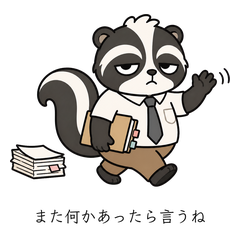
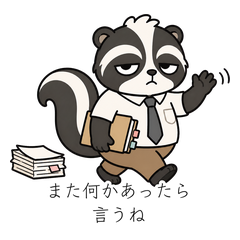
Align site releases and add character archive

diff --git a/site/index.html b/site/index.html
@@ -10,7 +10,7 @@
 <body>
   <header class="site-header">
     <a class="brand" href="./">Yuruaru Studio</a>
-    <nav><a href="#about">About</a><a href="#stickers">Stickers</a><a href="#vol2">Vol.2</a><a href="#future">Future</a><a href="#news">News</a></nav>
+    <nav><a href="#about">About</a><a href="#stickers">Stickers</a><a href="#releases">Releases</a><a href="characters.html">Characters</a><a href="#news">News</a></nav>
   </header>
 
   <main>
@@ -53,19 +53,27 @@
       </div>
     </section>
 
-    <section id="future" class="section future">
-      <div class="section-heading"><div><p class="eyebrow">In progress</p><h2>次の「あるある」も準備中。</h2></div><span class="status status-muted">制作中</span></div>
-      <p class="lead">なましすの世界を少しずつ広げています。生成AIに翻弄される第三弾と、めんどくさい依頼を投げてくるスカおじの第四弾を制作中です。</p>
+    <section id="releases" class="section future">
+      <div class="section-heading"><div><p class="eyebrow">Now available</p><h2>販売中のスタンプ。</h2></div><span class="status status-live">Vol.1〜6</span></div>
+      <p class="lead">なましすから、コンサル、スカおじ、レイコン、カワイソ、略語好きのカラスまで。仕事の「あるある」をキャラクターごとに展開しています。</p>
       <div class="future-grid">
-        <article class="future-card"><img src="assets/submission/vol3-main.png" alt="第三弾 生成AIに翻弄されるなましす"><div><p class="eyebrow">Vol.3</p><h3>生成AIに翻弄される日常</h3><p>「AIがこう言ってたんですけど…」が飛び交う、ちょっと先のITあるある。</p></div></article>
-        <article class="future-card"><img src="assets/submission/vol4-main.png" alt="第四弾 スカおじのめんどくさい依頼"><div><p class="eyebrow">Vol.4</p><h3>スカおじのめんどくさい依頼</h3><p>かわいいのに、じわじわ手強い。スカおじの「あと一個だけ」にご注意ください。</p></div></article>
+        <article class="future-card"><img src="assets/submission/vol3-main.png" alt="AIに翻弄されるなましす"><div><p class="eyebrow">Vol.3</p><h3>AIに翻弄されるなましす</h3><p>「AIがこう言ってたんですけど…」が飛び交う、生成AI時代のITあるある。</p><a class="text-link" href="https://line.me/S/sticker/36466731" target="_blank" rel="noopener">購入する ↗</a></div></article>
+        <article class="future-card"><img src="assets/submission/vol4-main.png" alt="スカおじのめんどくさい依頼"><div><p class="eyebrow">Vol.4</p><h3>スカおじのめんどくさい依頼</h3><p>かわいいのに、じわじわ手強い。スカおじの「あと一個だけ」にご注意ください。</p><a class="text-link" href="https://line.me/S/sticker/36487866" target="_blank" rel="noopener">購入する ↗</a></div></article>
+        <article class="future-card"><img src="assets/submission/vol5-main.png" alt="冷笑キツネとルール疲れカワイソ"><div><p class="eyebrow">Vol.5</p><h3>冷笑キツネとルール疲れカワイソ</h3><p>レイコンとカワイソが、承認・会議・申請・ハンコに今日もため息。</p><a class="text-link" href="https://line.me/S/sticker/36518780" target="_blank" rel="noopener">購入する ↗</a></div></article>
+        <article class="future-card"><img src="assets/submission/vol6-main.png" alt="それ、つまり何ですか？"><div><p class="eyebrow">Vol.6</p><h3>それ、つまり何ですか？</h3><p>横文字コンサルと略語好きエンジニア。伝わらない会話に今日も疲れる。</p><a class="text-link" href="https://line.me/S/sticker/36695331" target="_blank" rel="noopener">購入する ↗</a></div></article>
       </div>
+    </section>
+
+    <section id="future" class="section next">
+      <p class="eyebrow">Coming next</p>
+      <h2>次の「あるある」も準備中。</h2>
+      <p>犬PM、データ担当、BE、SRE。まだまだ増える、弱くて可愛いITどうぶつたち。</p>
     </section>
 
     <section id="news" class="section next">
       <p class="eyebrow">Coming next</p>
       <h2>ゆるく、続いていきます。</h2>
-      <p>第一弾・第二弾を販売中です。気になるセリフや「あるある」があれば、ぜひ教えてください。</p>
+      <p>Vol.1〜6を販売中です。気になるセリフや「あるある」があれば、ぜひ教えてください。</p>
     </section>
   </main>
 

diff --git a/site/characters.html b/site/characters.html
@@ -1,0 +1,39 @@
+<!doctype html>
+<html lang="ja">
+<head>
+  <meta charset="utf-8">
+  <meta name="viewport" content="width=device-width, initial-scale=1">
+  <meta name="description" content="Yuruaru StudioのITどうぶつキャラクター紹介。">
+  <title>Characters｜Yuruaru Studio</title>
+  <link rel="stylesheet" href="style.css">
+</head>
+<body>
+  <header class="site-header">
+    <a class="brand" href="./">Yuruaru Studio</a>
+    <nav><a href="./#releases">Releases</a><a href="characters.html">Characters</a><a href="./#news">News</a></nav>
+  </header>
+  <main>
+    <section class="section character-intro">
+      <p class="eyebrow">Character archive</p>
+      <h1>弱くて可愛い、<br>ITどうぶつたち。</h1>
+      <p class="lead">それぞれの職種、それぞれの限界。それでもなんとか働いているキャラクターを紹介します。</p>
+    </section>
+    <section class="section">
+      <div class="character-grid">
+        <article class="character-card"><img src="assets/characters/11-namashisu.png" alt="なましす"><h2>なましす</h2><p>問い合わせ対応に追われる、限界なまけ情シス。</p></article>
+        <article class="character-card"><img src="assets/characters/08-suka-oji.png" alt="スカおじ"><h2>スカおじ</h2><p>めんどくさい依頼を、ねっちこく投げてくる中年社員。</p></article>
+        <article class="character-card"><img src="assets/characters/09-reikon.png" alt="レイコン"><h2>レイコン</h2><p>冷笑が癖になっている、ちょっと鋭い若手キツネ。</p></article>
+        <article class="character-card"><img src="assets/characters/10-kawaiso.png" alt="カワイソ"><h2>カワイソ</h2><p>社内ルールと申請に疲れた、やさしいカワウソ。</p></article>
+        <article class="character-card"><img src="assets/characters/07-penguin-consultant.png" alt="ペンギンコンサル"><h2>ペンギンコンサル</h2><p>横文字とフレームワークで会話を遠くする転職者。</p></article>
+        <article class="character-card"><img src="assets/characters/05-crow-ai.png" alt="カラスエンジニア"><h2>カラスエンジニア</h2><p>略語と自動化を愛する、説明を省略しがちなエンジニア。</p></article>
+        <article class="character-card"><img src="assets/characters/06-dog-pm.png" alt="犬PM"><h2>犬PM</h2><p>丁寧な口調で期限・確認・宿題を積み上げるPM。</p></article>
+        <article class="character-card"><img src="assets/characters/04-owl-data.png" alt="フクロウデータ"><h2>フクロウデータ</h2><p>数字とグラフを見つめ続けるデータ担当。</p></article>
+        <article class="character-card"><img src="assets/characters/03-mole-be.png" alt="モグラBE"><h2>モグラBE</h2><p>見えないところで掘り続けるバックエンド担当。</p></article>
+        <article class="character-card"><img src="assets/characters/02-beaver-sre.png" alt="ビーバーSRE"><h2>ビーバーSRE</h2><p>障害と工具に向き合う、現場の守り人。</p></article>
+        <article class="character-card"><img src="assets/characters/01-cat-fe.png" alt="ネコFE"><h2>ネコFE</h2><p>画面と仕様の間で静かに戦うフロントエンド担当。</p></article>
+      </div>
+    </section>
+  </main>
+  <footer><span>© Yuruaru Studio</span><a href="./">トップへ戻る ↗</a></footer>
+</body>
+</html>

diff --git a/site/style.css b/site/style.css
@@ -12,10 +12,11 @@ nav { display:flex; gap:24px; color:var(--muted); font-size:.9rem; }
 .eyebrow { margin:0; color:var(--orange); font-size:.78rem; font-weight:800; letter-spacing:.12em; text-transform:uppercase; }
 .button { display:inline-block; margin-top:18px; padding:10px 20px; border-radius:99px; color:white; background:var(--ink); font-weight:700; }
 .hero-art { display:flex; justify-content:center; padding:14px; border-radius:32px; background:#f7dfc1; overflow:hidden; }
-.hero-art img { display:block; width:100%; max-width:620px; }
+.hero-art img { display:block; width:100%; max-width:620px; border-radius:24px; }
 .section { max-width:1120px; margin:auto; padding:90px 28px; border-top:1px solid var(--line); }
 .about { max-width:760px; margin-left:max(28px,calc((100% - 1120px)/2)); }
 h2 { margin:8px 0 16px; font-size:clamp(1.9rem,4vw,3.3rem); line-height:1.3; letter-spacing:-.04em; }
+.character-intro h1 { margin:10px 0 20px; font-size:clamp(2.5rem,6vw,5rem); line-height:1.2; letter-spacing:-.06em; }
 .about p:last-child,.lead { color:var(--muted); }
 .section-heading { display:flex; justify-content:space-between; gap:20px; align-items:end; }
 .status { padding:4px 12px; border:1px solid #e7b07a; border-radius:99px; color:#bd6a2e; font-size:.8rem; white-space:nowrap; }
@@ -33,7 +34,13 @@ figcaption { color:var(--muted); font-size:.75rem; }
 .future-card img { width:100%; border-radius:16px; background:#f7dfc1; }
 .future-card h3 { margin:5px 0 8px; line-height:1.35; }
 .future-card p:last-child { margin:0; color:var(--muted); font-size:.9rem; line-height:1.6; }
+.text-link { display:inline-block; margin-top:10px; color:var(--orange); font-weight:800; font-size:.88rem; }
 .next { text-align:center; padding-bottom:120px; }
 .next p:last-child { max-width:520px; margin:0 auto; color:var(--muted); }
+.character-grid { display:grid; grid-template-columns:repeat(3,1fr); gap:22px; }
+.character-card { padding:18px; border:1px solid var(--line); border-radius:24px; background:white; }
+.character-card img { display:block; width:100%; aspect-ratio:1.25; object-fit:contain; border-radius:16px; background:#fffaf1; }
+.character-card h2 { margin:14px 0 4px; font-size:1.35rem; }
+.character-card p { margin:0; color:var(--muted); font-size:.9rem; line-height:1.65; }
 footer { max-width:1120px; margin:auto; padding:28px; border-top:1px solid var(--line); display:flex; justify-content:space-between; color:var(--muted); font-size:.8rem; }
-@media (max-width:700px) { nav { gap:12px; font-size:.78rem; } .hero { grid-template-columns:1fr; gap:30px; padding-top:40px; } .hero-art { max-width:260px; margin:auto; } .section-heading { align-items:start; flex-direction:column; } .sticker-grid { grid-template-columns:repeat(2,1fr); gap:10px; } .future-grid { grid-template-columns:1fr; } .future-card { grid-template-columns:110px 1fr; gap:14px; } footer { flex-direction:column; gap:8px; } }
+@media (max-width:700px) { nav { gap:12px; font-size:.78rem; } .hero { grid-template-columns:1fr; gap:30px; padding-top:40px; } .hero-art { max-width:100%; margin:auto; } .section-heading { align-items:start; flex-direction:column; } .sticker-grid { grid-template-columns:repeat(2,1fr); gap:10px; } .future-grid { grid-template-columns:1fr; } .future-card { grid-template-columns:110px 1fr; gap:14px; } .character-grid { grid-template-columns:repeat(2,1fr); gap:12px; } .character-card { padding:12px; border-radius:18px; } footer { flex-direction:column; gap:8px; } }
